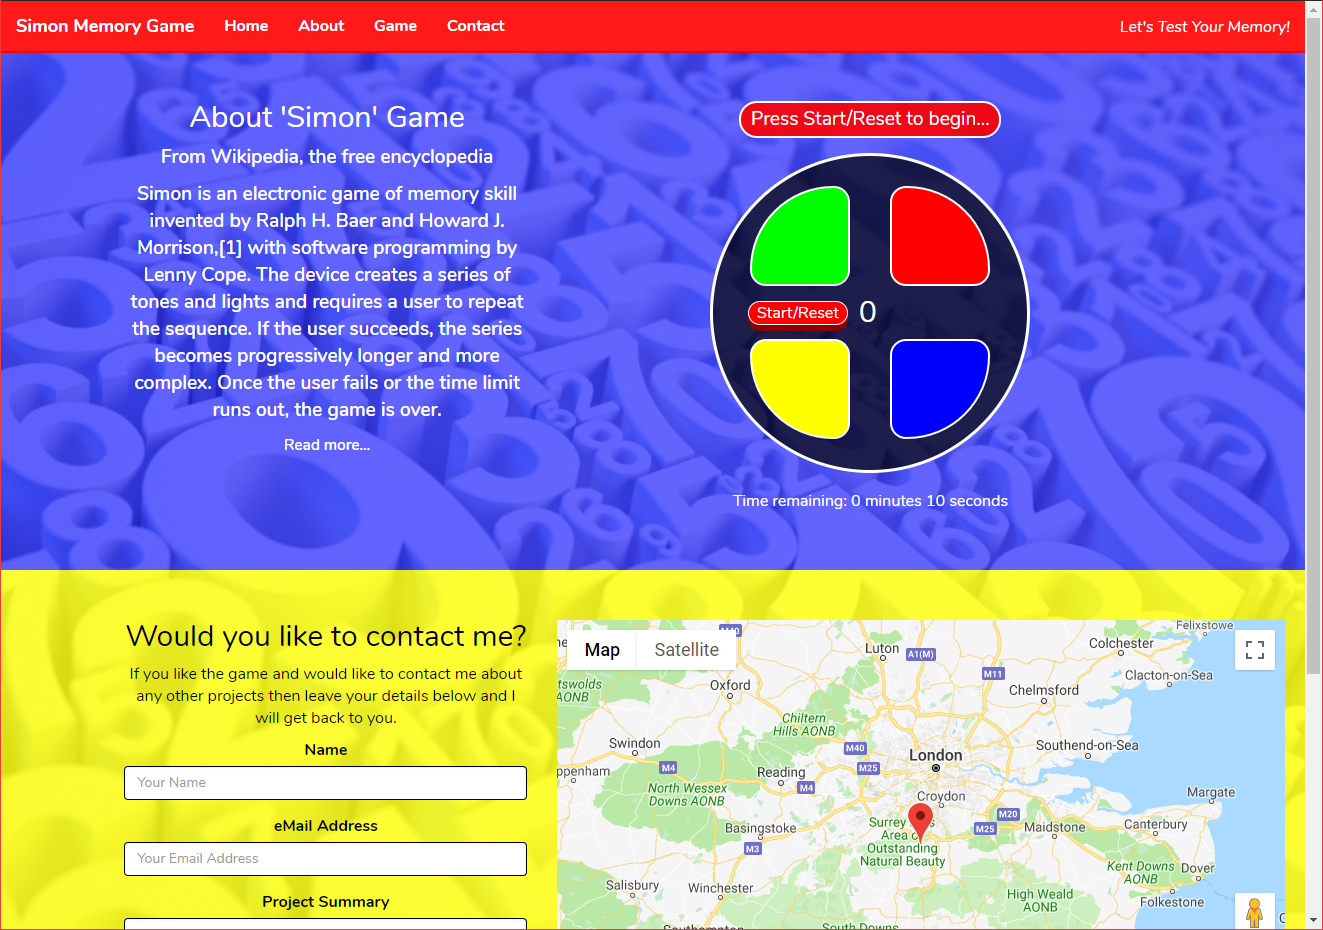
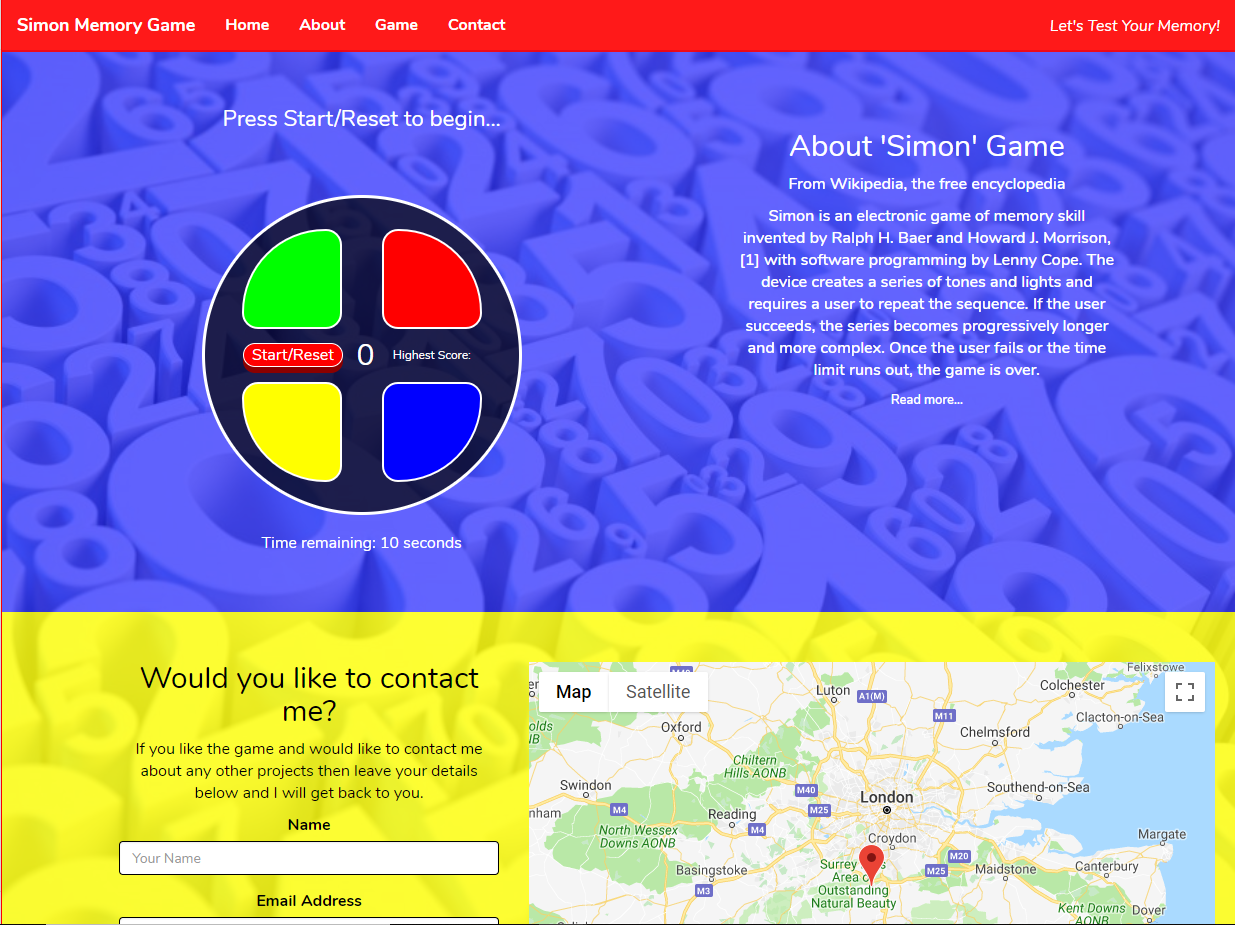
Made some small changes after chat with Mentor

diff --git a/index.html b/index.html
@@ -48,27 +48,16 @@
     </div>
   </nav>
 
-  <!------------About------------>
+  <!--Create a blue overlay for the Game and About section-->
 
   <div class="bg aboutGame">
     <div class="opaque-overlay-blue"></div>
     <div class="container-fluid main-container">
       <div class="row">
-        <div class="col-xs-offset-1 col-xs-10 col-md-4">
-          <div id="about">
-            <h2>About 'Simon' Game</h2>
-            <p>From Wikipedia, the free encyclopedia</p>
-            <p>Simon is an electronic game of memory skill invented by Ralph H. Baer and Howard J. Morrison,[1] with software programming by Lenny Cope. The device creates a series of tones and lights and requires a user to repeat the sequence. If the user
-              succeeds, the series becomes progressively longer and more complex. Once the user fails or the time limit runs out, the game is over. </p>
-            <a href="https://en.wikipedia.org/wiki/Simon_(game)" target="_blank">
-              <p class="read-more">Read more...</p>
-            </a>
-          </div>
-        </div>
-        
+
         <!------------Game------------>
 
-        <div id="game" class="col-xs-12 col-md-6">
+        <div id="game" class="col-md-12 col-lg-7">
           <div class="row">
             <div class="col-xs-12">
               <h2 id="information">Press Start/Reset to begin...</h2>
@@ -84,6 +73,7 @@
                 <div class="game-row">
                   <button id="startReset" class="button" onclick="resetGamePressed()">Start/Reset</button>
                   <h2 id="roundNumber">0</h2>
+                  <h3 id="hi_score">Highest Score: </h3>
                 </div>
                 <div class="game-row">
                   <div id="yellow" class="gamebutton" onClick="playerClicked(this.id)"></div>
@@ -91,7 +81,21 @@
                 </div>
               </div>
             </div>
-            <h3 id="timer">Time remaining: 0 minutes 10 seconds</h3>
+            <h3 id="timer">Time remaining: 10 seconds</h3>
+          </div>
+        </div>
+
+        <!------------About------------>
+
+        <div class="col-md-12 col-lg-4">
+          <div id="about">
+            <h2>About 'Simon' Game</h2>
+            <p>From Wikipedia, the free encyclopedia</p>
+            <p>Simon is an electronic game of memory skill invented by Ralph H. Baer and Howard J. Morrison,[1] with software programming by Lenny Cope. The device creates a series of tones and lights and requires a user to repeat the sequence. If the user
+              succeeds, the series becomes progressively longer and more complex. Once the user fails or the time limit runs out, the game is over. </p>
+            <a href="https://en.wikipedia.org/wiki/Simon_(game)" target="_blank">
+              <p class="read-more">Read more...</p>
+            </a>
           </div>
         </div>
       </div>

diff --git a/assets/js/script.js b/assets/js/script.js
@@ -25,9 +25,20 @@ var countdown_number;
   emailjs.init("user_gqsmetIRnz8HskVK7nXeh");
 })();
 
-/*When a navigation link is clicked the page will scroll smoothly*/
-// Add smooth scrolling to all links
 $(document).ready(function() {
+
+  /*Update the highest score*/
+  if (typeof(Storage) !== "undefined") {
+    if (localStorage.highscore) {
+      document.getElementById("hi_score").innerHTML = "Highest Score: " + localStorage.highscore;
+    }
+    else {
+      localStorage.highscore = 1;
+    }
+  }
+
+  /*When a navigation link is clicked the page will scroll smoothly*/
+  /* Add smooth scrolling to all links*/
   $("a").on('click', function(event) {
 
     // Make sure this.hash has a value before overriding default behavior
@@ -85,8 +96,19 @@ function checkPlayerClick() {
       if (roundNumber != 1) {
         information(motivation[(Math.floor(Math.random() * 7))]);
       }
+      if (typeof(Storage) !== "undefined") {
+        if (localStorage.highscore) {
+          if (roundNumber > Number(localStorage.highscore)) {
+            localStorage.highscore = roundNumber;
+          }
+          document.getElementById("hi_score").innerHTML = "Highest Score: " + localStorage.highscore;
+        }
+        else {
+          localStorage.highscore = 1;
+        }
+      }
       countdown_clear(); /*Clear the timer */
-      var myTimer = setTimeout(waitForNextRound, 2000);
+      setTimeout(waitForNextRound, 2000);
 
       function waitForNextRound() {
         nextRound();
@@ -109,6 +131,12 @@ function informationFlash(infoDescription) {
   })
 }
 
+function waitForNextRound() {
+  roundNumber = 0;
+  $("#game").removeClass('disabled');
+  nextRound();
+}
+
 /*When the start/reset button is pressed this function is called*/
 function resetGamePressed() {
   $("#game").addClass('disabled');
@@ -117,13 +145,7 @@ function resetGamePressed() {
   wakeUp();
   resetGame();
 
-  var myTimer = setTimeout(waitForNextRound, 4000);
-
-  function waitForNextRound() {
-    roundNumber = 0;
-    $("#game").removeClass('disabled');
-    nextRound();
-  }
+  setTimeout(waitForNextRound, 4000);
 }
 
 /*Reset the game*/
@@ -238,7 +260,7 @@ function countdown_trigger() {
     var minutes = Math.floor(countdown_number / 60);
     var seconds = countdown_number % 60;
 
-    timer.innerHTML = "Time remaining: " + minutes + " minutes " + seconds + " seconds";
+    timer.innerHTML = "Time remaining: " + seconds + " seconds";
     if (countdown_number > 0) {
       countdown = setTimeout('countdown_trigger()', 1000);
     }

diff --git a/assets/css/main.css b/assets/css/main.css
@@ -157,6 +157,14 @@ body {
 .navbar-default .navbar-toggle:focus, .navbar-default .navbar-toggle:hover {
   background-color: transparent; }
 
+.navbar .navbar-nav {
+  display: inline-block;
+  float: none;
+  vertical-align: top; }
+
+.navbar .navbar-collapse {
+  text-align: center; }
+
 /*******************************************ABOUT DETAILS*******************************************/
 /*Features of about*/
 #about {
@@ -164,8 +172,10 @@ body {
   padding: 30px 0px 0px 0px;
   background-color: transparent;
   color: white;
-  font-size: 1.2em;
   font-weight: 600; }
+
+#about h2 {
+  padding-top: 30px; }
 
 /*Enable the user to read more in wikipedia*/
 .read-more {
@@ -239,7 +249,7 @@ body {
 /*Features of the counter that keeps track of the current 'round'*/
 #roundNumber {
   text-align: center;
-  margin: 0px 110px 0px 0px;
+  margin: 0px 10px 0px 0px;
   padding-right: 5px;
   width: 25px;
   animation-duration: 0.4s;
@@ -273,16 +283,20 @@ body {
   animation-duration: 2s;
   display: inline-block;
   color: white;
-  background: rgba(255, 0, 0, 0.9);
+  /*background: rgba(255, 0, 0, 0.9);*/
+  background: transparent;
   padding: 0.3em 0.5em 0.3em 0.5em;
   text-align: center;
   margin-top: 50px;
+  height: 80px;
   font-weight: 500;
-  font-size: 1.2em;
-  border-style: solid;
-  border-width: 2px;
-  border-color: white;
-  border-radius: 20px; }
+  font-size: 1.4em;
+  /* border: {
+       style: solid;
+       width: 2px;
+       color: white;
+       radius: 20px;
+   }*/ }
 
 /*Size and colour of the game timer*/
 #timer {
@@ -292,6 +306,11 @@ body {
 /*Disable any clicks when the game is showing the next sequence*/
 .disabled {
   pointer-events: none; }
+
+#hi_score {
+  font-size: 12px;
+  color: white;
+  margin: 0px 10px 0px 0px; }
 
 /*******************************************CONTACT DETAILS*******************************************/
 /*Features of the contact form*/

diff --git a/assets/css/_game.scss b/assets/css/_game.scss
@@ -88,7 +88,7 @@
 #roundNumber {
     @extend .game-row;
     text-align: center;
-    margin: 0px 110px 0px 0px;
+    margin: 0px 10px 0px 0px;
     padding-right: 5px;
     width: 25px;
     animation-duration: 0.4s;
@@ -136,21 +136,23 @@
     animation-duration: 2s;
     display: inline-block;
     color: white;
-    background: rgba(255, 0, 0, 0.9);
+    /*background: rgba(255, 0, 0, 0.9);*/
+    background: transparent;
     padding: 0.3em 0.5em 0.3em 0.5em;
     text-align: center;
     margin-top: 50px;
+    height: 80px;
     font: {
         weight: 500;
-        size: 1.2em;
+        size: 1.4em;
     }
     ;
-    border: {
+   /* border: {
         style: solid;
         width: 2px;
         color: white;
         radius: 20px;
-    }
+    }*/
     ;
 }
 
@@ -166,4 +168,10 @@
 
 .disabled {
     pointer-events: none;
+}
+
+#hi_score {
+    font-size: 12px;
+    color: white;
+    margin: 0px 10px 0px 0px;
 }

diff --git a/assets/css/_navigation.scss b/assets/css/_navigation.scss
@@ -78,3 +78,13 @@
 .navbar-default .navbar-toggle:focus, .navbar-default .navbar-toggle:hover {
     background-color: transparent;
 }
+
+.navbar .navbar-nav {
+  display: inline-block;
+  float: none;
+  vertical-align: top;
+}
+
+.navbar .navbar-collapse {
+  text-align: center;
+}

diff --git a/assets/css/_about.scss b/assets/css/_about.scss
@@ -8,9 +8,12 @@
     background-color: transparent;
     color: white;
     font: {
-        size: 1.2em;
         weight: 600;
     }
+}
+
+#about h2{
+    padding-top: 30px;
 }
 
 

diff --git a/README.md b/README.md
@@ -30,7 +30,9 @@ The live website can be found [here](https://darrenmessenger.github.io/simon-gam
 - If I hear the buzzer that means the game has ended and I will see a flashing information message telling me to press the 'Start/Reset' button.
 - If I want to restart the game at any time then I can press the 'Start/Reset' button. 
 - If I keep copying the sequence of random panels correctly the sequence will increase by one each round.
-- If I keep copying the sequence of random panels correctly the sequence could get quite long as there isn't an end to the game unless a mistake is made or the game times out. 
+- If I keep copying the sequence of random panels correctly the sequence could get quite long as there isn't an end to the game unless a mistake is made or the game times out.
+- If I beat the highest score then I want the display of the 'Highest Score' to be updated with my current score. 
+- If the Game is showing the next sequence of colours do not let the user press any panel until the sequence has finished. 
  
 ### Process
 
@@ -58,6 +60,8 @@ This section utilises the bootstrap grid layout.
 The game itself uses has different colour panels withing a large circle to imitate the game. There is a counter and a 'Start/Reset' button within the circle as well. 
 
 When a user clicks on a button or a panel the relevant function is called from the script.js file. There are a number of functions that deal with every aspect of the game. 
+
+Each of the User Stories were looked at to make sure that the game functioned correctly. The design and functionality of the game was based on the User Stories. 
 
 #### Contact Me:
 This section utilises the bootstrap grid layout. There is a form to allow the user to enter details so that they may contact me if they like the game and want to give me a project or want to discuss something.
@@ -136,6 +140,8 @@ I went through each of the User Stories to make sure that they worked as expecte
 | If I want to restart the game at any time then I can press the 'Start/Reset' button. | **PASSED** |
 | If I keep copying the sequence of random panels correctly the sequence will increase by one each round. | **PASSED** |
 | If I keep copying the sequence of random panels correctly the sequence could get quite long as there isn't an end to the game unless a mistake is made or the game times out. | **PASSED** |
+| If I beat the highest score then I want the display of the 'Highest Score' to be updated with my current score. | **PASSED**|
+| If the Game is showing the next sequence of colours do not let the user press any panel until the sequence has finished. | **PASSED** |
 
 ### Contact Me
 
